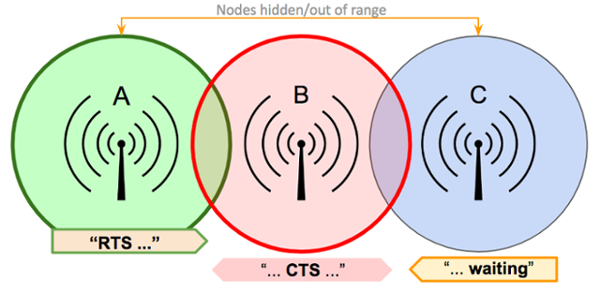
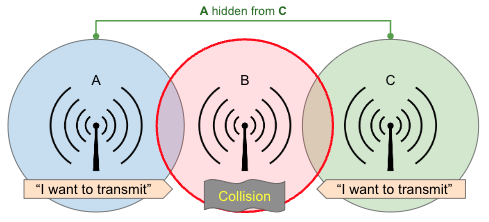
add hidden/exposed info

diff --git a/arednNetworkDesign/channel_planning.rst b/arednNetworkDesign/channel_planning.rst
@@ -30,10 +30,10 @@ This example is not meant to show that having only seven nodes will overload a c
 
 Several tools are available for testing network performance such as *ping* to measure latency, *traceroute* to identify how traffic is being routed, and *iperf3* to estimate network throughput. Periodic measurements along with user perceptions can be helpful in determining whether channel separation would be of benefit. It is an expected by-product of how wireless networks normally operate, but performance can be enhanced by planning the assigned channels for your mesh devices as described in the **Channel Plans** section below.
 
-Hidden Nodes
-++++++++++++
+Hidden and Exposed Nodes
+++++++++++++++++++++++++
 
-In any wireless network there will be nodes that are not within radio range of each other but which share the same channel. In the example diagram, **A** can hear **B** but cannot hear **C**. Since **A** and **C** are `hidden from each other <https://en.wikipedia.org/wiki/Hidden_node_problem>`_, they may try to transmit on the shared channel at the same time without knowing it. Because of their relative locations and any associated network delays, each node may appear to have a clear channel for transmission.
+In any wireless network there will be nodes that are not within radio range of each other but which share the same channel. In the `Hidden Node <https://en.wikipedia.org/wiki/Hidden_node_problem>`_ example below, **A** can reach **B** but cannot reach **C**. Since **A** and **C** are hidden from each other, they may try to transmit on the shared channel at the same time without knowing it. Because of their relative locations and any associated network delays, each node may think it has a clear channel for transmitting.
 
 .. image:: _images/hidden-node.png
    :alt: Hidden Node Problem
@@ -41,11 +41,20 @@ In any wireless network there will be nodes that are not within radio range of e
 
 |
 
-`Request to Send / Clear to Send (RTS/CTS) <https://en.wikipedia.org/wiki/IEEE_802.11_RTS/CTS>`_ messages are used by AREDN |trade| nodes to minimize or eliminate this issue. For example, node **A** broadcasts a short RTS message with a proposed timeslot/duration for transmitting its complete data stream. Node **B** receives that request and broadcasts a CTS for that time slot. Node **C** could not hear the original RTS but will hear the CTS message and defer its transmissions during that time slot.
+In the `Exposed Node <https://en.wikipedia.org/wiki/Exposed_node_problem>`_ example below, **A** can reach **B** but cannot reach **C** or **D**. However, if **A** and **B** are communicating, then **C** will detect that the channel is not clear and will prevent **D** from transmitting even though **D**'s transmission would not interfere with the conversation between **A** and **B**. This increases the network wait time which impacts overall throughput.
 
-Two other approaches may also alleviate the hidden node issue. You may be able to make the hidden nodes visible to each other, for example by increasing their signal strength. The alternative is to isolate the nodes completely by placing them onto different bands or channels. Since nodes using directional antennas are nearly invisible to others not positioned in the antenna's beam, directional antennas should be used with care when sharing a channel. It may be more appropriate to create a separate link between the sites and to put the radios on a different band or channel.
+.. image:: _images/exposed-node.png
+   :alt: Exposed Node Problem
+   :align: center
 
-Another case is when there is one poor quality link over which all traffic must be routed. The handshaking and data retransmissions may cause all the other nodes to wait. The entire network can be impacted by one low quality path which becomes a single bottleneck. If at all possible you should increase the signal quality of that vital link or install a better link as an alternate path.
+|
+
+
+`Request to Send / Clear to Send (RTS/CTS) <https://en.wikipedia.org/wiki/IEEE_802.11_RTS/CTS>`_ messages can be used by AREDN |trade| nodes to minimize these issues. For example, node **A** broadcasts a short RTS message with a proposed timeslot/duration for transmitting its complete data stream. Node **B** receives that request and broadcasts a CTS for that time slot. Node **C** could not hear the original RTS but will hear the CTS message and defer its transmissions during that time slot.
+
+Other approaches may alleviate these issues. You may be able to make hidden nodes visible to each other, for example by increasing their signal strength. Another alternative would be to isolate the nodes completely by placing them onto different bands or channels. Since nodes using directional antennas are nearly invisible to others not positioned in the antenna's beam, directional antennas should be used with care when sharing a channel. It may be more appropriate to create a separate link between the sites and to put the radios on different bands or channels.
+
+Another case is when there is one poor quality link over which all traffic must be routed. The handshaking and data retransmissions may cause all the other nodes to wait. The entire network can be impacted by one low quality path which becomes a bottleneck. If at all possible you should increase the signal quality of that vital link or install a better link as an alternate path.
 
 Route Flapping
 ++++++++++++++

diff --git a/arednGettingStarted/node_status.rst b/arednGettingStarted/node_status.rst
@@ -121,7 +121,6 @@ Status
 
   - *pending*: LQM is collecting data and evaluating the link.
   - *active*: LQM determined that the link is viable and can be used.
-  - *idle*: LQM has determined that the link is usable and would be *active* but the node routing table does not yet have a route for sending traffic across the link.
   - *blocked*: LQM determined that the link is unusable and has blocked it from use.
   - *blocked - distance*: LQM determined that the remote node is either too close or too distant, based on the Min and Max Distance settings described in the *Advanced Configuration* section.
   - *blocked - signal*: LQM determined that the SNR on the link is too low to reliably pass data, based on the Min SNR setting described in the *Advanced Configuration* section.
@@ -130,6 +129,9 @@ Status
   - *blocked - dtd*: LQM blocks the RF interface on any nodes to which a DtD link also exists.
   - *blocked - dup*: LQM blocks a link in cases when your node has an RF link to other nodes which themselves connect to each other via DtD. This can occur when there are multiple radios at a site using the same channel. The best remote node is chosen as the RF link for your node but the other possible RF connections are blocked as duplicates.
   - *blocked - user*: LQM will block any node which you enter in the *User Blocked Nodes* field described in the *Advanced Configuration* section.
+  - *hidden*: LQM will display nodes that are out of range of your node but which are able to access a common intermediary node.
+  - *exposed*: LQM will display nodes that can reach other nodes which are hidden from your node.
+  - *idle*: LQM has determined that the link is usable and would be *active* but the node routing table does not yet have a route for sending traffic across the link.
   - *disconnected*: This RF Neighbor is no longer online.
 
 The *Neighbor Status* table will be refreshed automatically every minute as LQM evaluates your node's radio links on an ongoing basis. Links whose quality has improved may be activated, while links whose quality has worsened may be blocked. If an existing node link goes offline, it will age out of the list within about an hour. To refresh the neighbor list on demand you can click the **Refresh** button. If you want to return to the *Node Status* display, click the **Quit** button.
